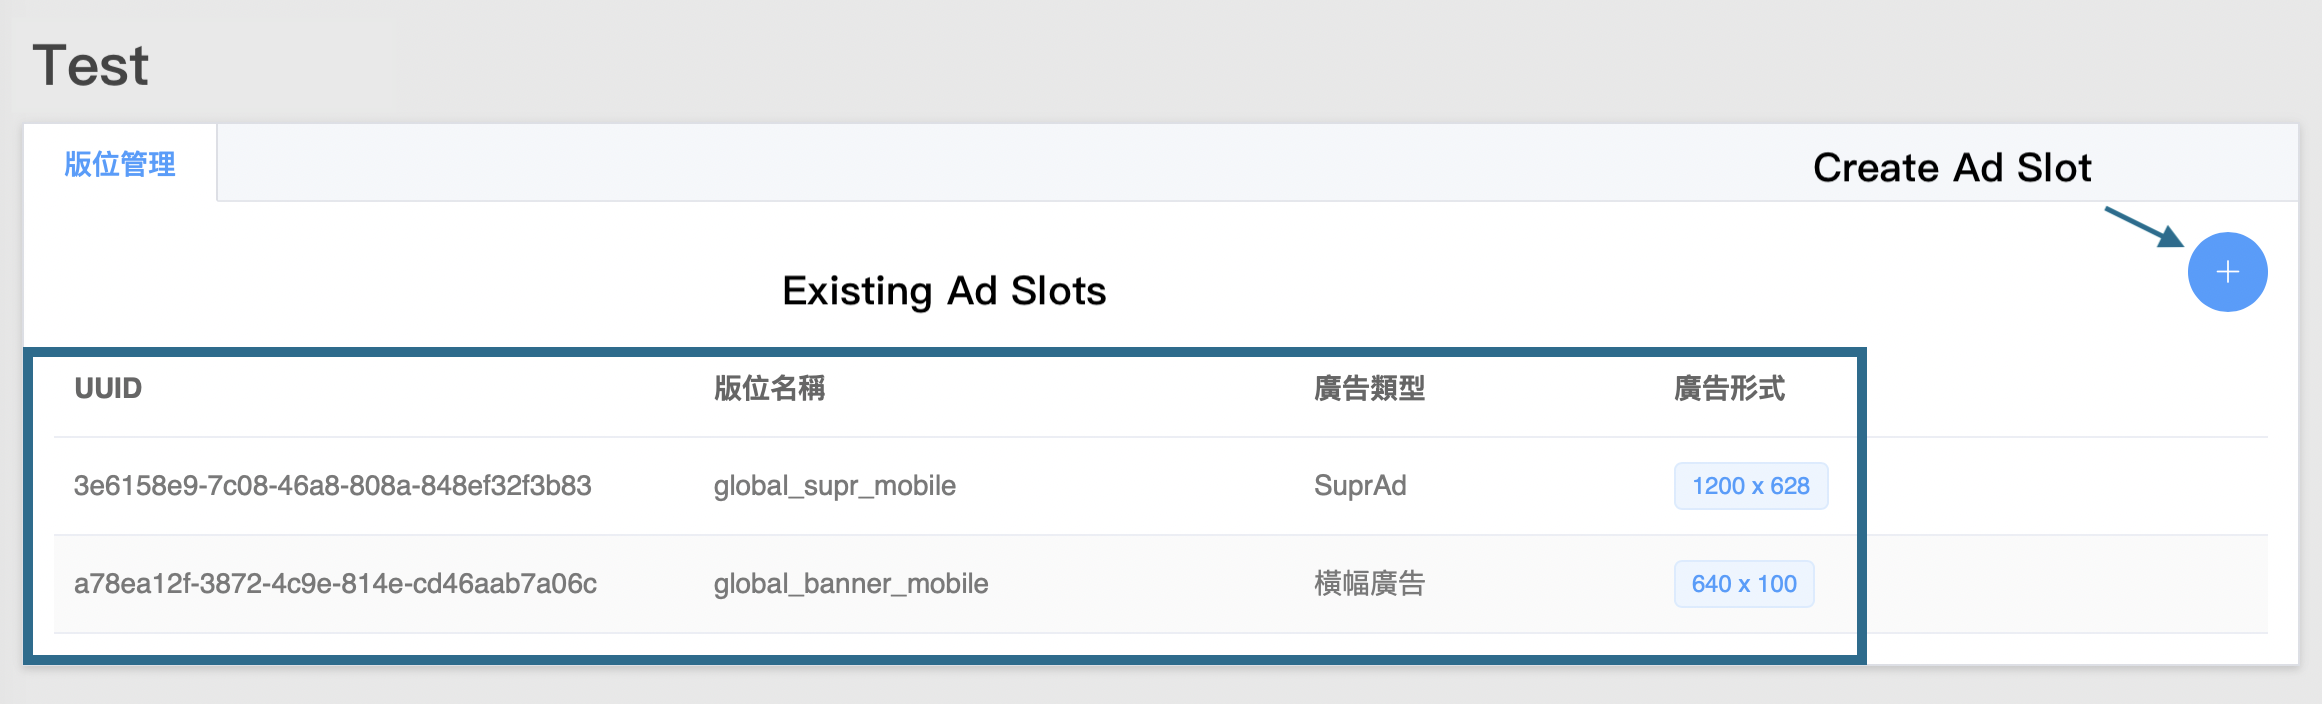
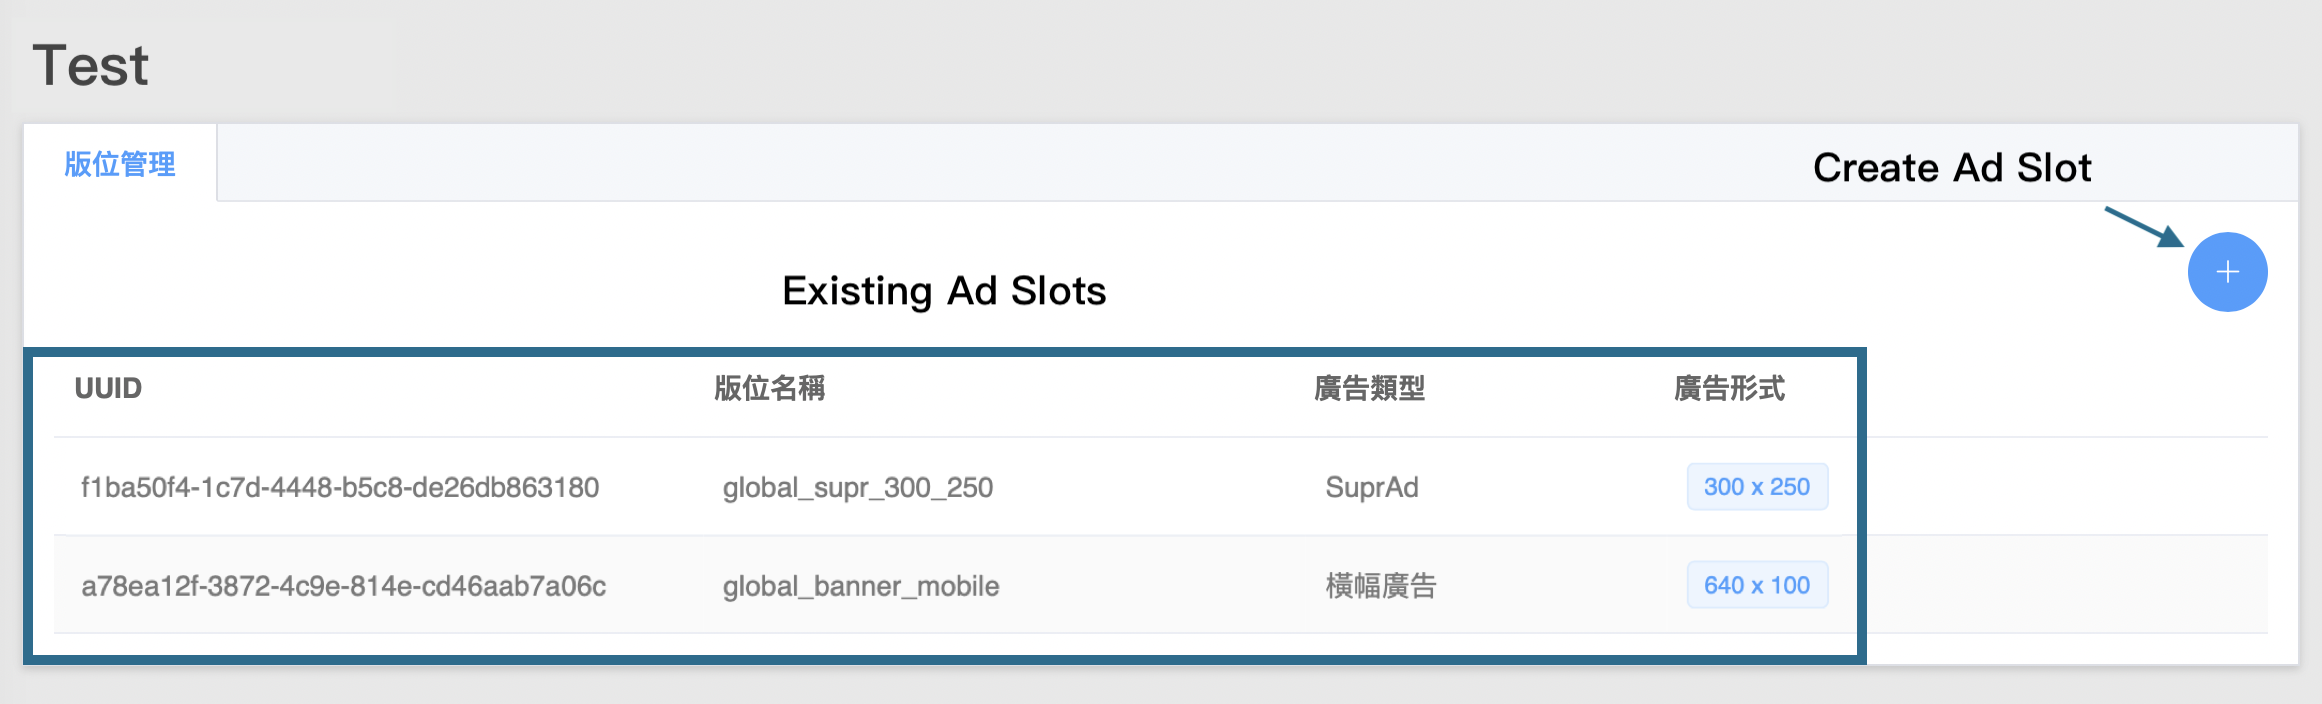
GitBook: [#366] adjust web ad size

diff --git a/web/web-sdk/prerequisites.md b/web/web-sdk/prerequisites.md
@@ -31,10 +31,10 @@ After entering the list, you might find the ad status is test ad only. For the p
 Entering the ad slots management and then creating ad slots. Name the ad slot with lowercase letters `a-z` , number `0-9` and underscore `_` .\
 AotterTrek currently provides three types of ad and different sizes:
 
-* Supr.Ad (1200x628 / 336x280 / 300x250)
-* Banner Ad (320x50 / 640x100 / 336x280 / 300x250)
+* Supr.Ad (336x280 / 300x250)
+* Banner Ad (320x50 / 640x100)
 
-![](<../../.gitbook/assets/截圖 2021-09-17 上午11.55.35.png>)
+![](../../.gitbook/assets/%E6%88%AA%E5%9C%96%202021-09-17%20%E4%B8%8A%E5%8D%8811.55.35.png)
 
 After the ad slot is created, you will see a list of ad slots as shown.
 

diff --git a/web/ad-formats/supr.ad.md b/web/ad-formats/supr.ad.md
@@ -1,5 +1,9 @@
 # Supr.Ad
 
+**Supr.Ad Size**
+
+\- 300x250    - 336x280
+
 Follow these steps to build a Supr.Ad layout and then requests it.
 
 Step 1: [Insert `<div>` tag ](supr.ad.md#step-1-insert-less-than-div-greater-than-tag)\
@@ -32,4 +36,4 @@ Please replace`placement_UUID` with your ad place UUID.
 
 ### Done! 👏🏼
 
-![](<../../.gitbook/assets/截圖 2021-04-01 下午3.40.15.png>)
+![](<../../.gitbook/assets/截圖 2021-12-07 下午4.26.30.png>)

diff --git a/web/web-sdk/sdk-integration.md b/web/web-sdk/sdk-integration.md
@@ -84,7 +84,7 @@ For the publisher who use AotterTrek SDK for the first time and didn't get full 
 
 AotterTrek web SDK will parse `<div id="adContainer">` to an ad view.
 
-![](<../../.gitbook/assets/截圖 2021-04-01 下午3.40.15.png>)
+![](<../../.gitbook/assets/截圖 2021-12-07 下午4.26.30.png>)
 
 ## Full Example
 

diff --git a/web/ad-formats/banner-ad.md b/web/ad-formats/banner-ad.md
@@ -2,7 +2,7 @@
 
 **Banner Ad Size**
 
-\- 320x50    - 640x100    - 336x280    - 300x250&#x20;
+\- 320x50    - 640x100
 
 We provide different kinds of sizes in banner ads, but the size has been decided by you in the ad slot phase. See [Create an Ad Slot](../web-sdk/prerequisites.md#step-3-create-an-ad-slot).
 
